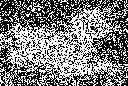
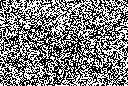
Added to Gibbs.

diff --git a/py/gibbs_denoising.py b/py/gibbs_denoising.py
@@ -2,14 +2,19 @@
 A script for adding noise to an image, then using Gibbs sampling to denoise it.
 	execfile(os.path.join(os.environ['HOME'], '.pythonrc'))
 """
-import os
-execfile(os.path.join(os.environ['HOME'], '.pystartup'))
+import os, argparse
+execfile(os.path.join(os.environ['HOME'], '.pythonrc'))
 import numpy as np
 import matplotlib.pyplot as plt
 from scipy.misc import imread, imsave
 
 root_dir = os.path.join(os.environ['HOME'], 'ML_Python')
 image_dir = os.path.join(root_dir, 'images')
+
+parser = argparse.ArgumentParser(description="For adding noise to an image, then denoising it using Gibbs sampling.")
+parser.add_argument('-p', '--proportion', help='The proportion of bits to add noise.', type=float, default=0.7)
+parser.add_argument('-v', '--noise_variance', help='variance for Gaussian noise', type=float, default=0.1)
+args = parser.parse_args()
 
 def addGaussianNoise(im, prop, varSigma):
     N = int(np.round(np.prod(im.shape)*prop))
@@ -54,27 +59,49 @@ def getNeighbours(i,j,M,N,size=4):
 def loadNoisyImage(file_name, dir=image_dir):
 	return imread(os.path.join(dir, file_name))/255.0
 
+def calcPixelEnergy(test_value, neighbours, pixel_value, noisy_image, h, beta, eta):
+	bias = test_value
+	local_corr = np.array([test_value * noisy_image[n_m, n_n] for (n_m, n_n) in neighbours]).sum()
+	image_corr = test_value * pixel_value
+	return h*bias - beta*local_corr - eta*image_corr
+
 original_image = imread(os.path.join(image_dir, 'dachshund_bw.jpg'))/255
-gaussian_image = addGaussianNoise(original_image, 0.7, 0.1)
-noisy_image = addSaltNPepperNoise(original_image, 0.7)
+gaussian_image = addGaussianNoise(original_image, args.proportion, args.noise_variance)
+noisy_image = addSaltNPepperNoise(original_image, args.proportion)
 gaussian_path = os.path.join(image_dir, 'dachshund_gaussian.jpg')
 noisy_path = os.path.join(image_dir, 'dachshund_noisy.jpg')
 imsave(gaussian_path, gaussian_image*255)
 imsave(noisy_path, noisy_image*255)
+rescaled_noisy = np.interp(noisy_image, (0, 1), (-1, 1))
 h = 0
 beta = 1.0
 eta = 2.1
-M,N = noisy_image.shape
-bias_plus = 0
-local_corr_plus = 0
-image_corr_plus = 0
-for m in range(0,M):
-	for n in range(0,N):
-		x_i = 1
-		neighbours = getNeighbours(m,n,M,N)
-		bias_plus += x_i
-		for (n_m, n_n) in neighbours:
-			neighbour_value = noisy_image[n_m, n_n]
-			local_corr_plus += x_i*neighbour_value
-		pixel_value = noisy_image[m,n]
-		image_corr_plus += x_i*pixel_value
+M, N = noisy_image.shape
+denoised_image = np.zeros((M, N), dtype=int)
+has_flips = True
+while has_flips:
+	has_flips = False
+	for m in range(0,M):
+		for n in range(0,N):
+			neighbours = getNeighbours(m,n,M,N)
+			pixel_value = rescaled_noisy[m, n]
+			energy_plus = calcPixelEnergy(1, neighbours, pixel_value, noisy_image, h, beta, eta)
+			energy_minus = calcPixelEnergy(-1, neighbours, pixel_value, noisy_image, h, beta, eta)
+			p_plus = np.exp(-energy_plus)
+			p_minus = np.exp(-energy_minus)
+			if (p_plus >= p_minus) & (denoised_image[m, n] == 0):
+				denoised_image[m, n] = 1
+				has_flips = True
+				print("Flipped: ["+str(m)+", "+str(n)+"]")
+			if (p_plus < p_minus) & (denoised_image[m, n] == 1):
+				denoised_image[m, n] = 0
+				has_flips = True
+				print("Flipped: ["+str(m)+", "+str(n)+"]")
+fig = plt.figure()
+ax = fig.add_subplot(131)
+ax.imshow(original_image, cmap='gray')
+ax = fig.add_subplot(132)
+ax.imshow(noisy_image, cmap='gray')
+ax = fig.add_subplot(133)
+ax.imshow(denoised_image, cmap='gray')
+plt.show(block=False)
